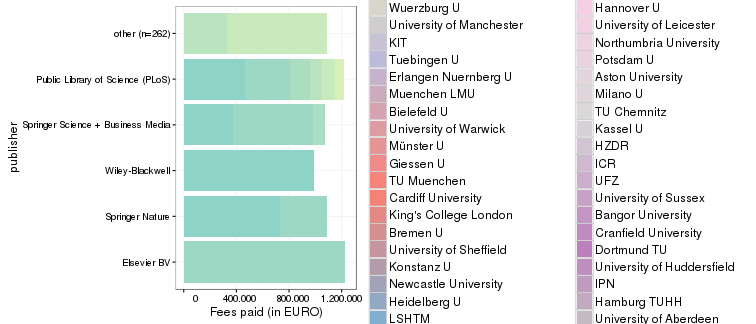
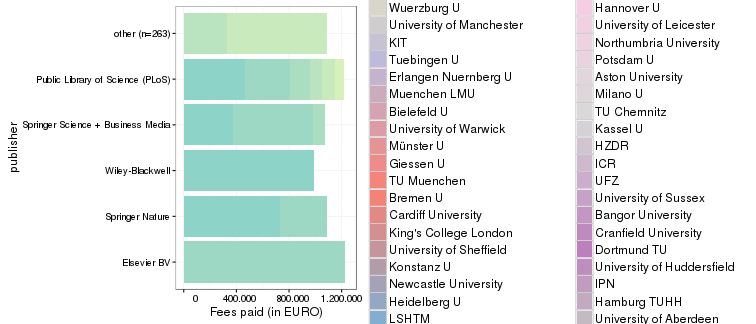
post: bremen apc data 2016

Changed region(s): [[0.5172, 0.5864, 0.6693, 0.679], [0.5172, 0.7099, 0.6693, 0.7407]]

diff --git a/_posts/2017-03-21-bremen.md b/_posts/2017-03-21-bremen.md
@@ -1,0 +1,56 @@
+---
+layout:     post
+author:     Christoph Broschinski
+author_lnk: https://github.com/cbroschinski
+title:      University of Bremen reports remaining APC expenditures for 2016
+date:       2017-03-21 07:00:00
+summary:    
+categories: [general, openAPC]
+comments: true
+---
+
+
+
+The [University of Bremen](http://www.uni-bremen.de/en.html) has updated its APC expenditures. The latest contribution provides remaining data for the 2016 period.
+
+The [State and University Library Bremen](http://www.suub.uni-bremen.de/home-english/) is in charge of the [University's Open Access Publishing Fund](http://www.suub.uni-bremen.de/home-english/refworks-and-publishing/open-access-in-bremen-2/), which is supported under the [DFG's Open Access Publishing Programme](http://www.dfg.de/en/research_funding/programmes/infrastructure/lis/funding_opportunities/open_access/).
+
+Contact person is [Benjamin Ahlborn](mailto:ahlborn@suub.uni-bremen.de).
+
+## Cost data
+
+
+
+The new dataset covers publication fees for 35 articles. Total expenditure amounts to 53 846€ and the average fee is 1 538€.
+
+
+|                                                            | Articles| Fees paid in EURO| Mean Fee paid|
+|:-----------------------------------------------------------|--------:|-----------------:|-------------:|
+|Springer Nature                                             |       13|             16175|          1244|
+|Copernicus GmbH                                             |        7|             12207|          1744|
+|Frontiers Media SA                                          |        3|              6205|          2068|
+|MDPI AG                                                     |        3|              3966|          1322|
+|Public Library of Science (PLoS)                            |        2|              2676|          1338|
+|American Society for Clinical Investigation                 |        1|              3287|          3287|
+|Association for Research in Vision and Ophthalmology (ARVO) |        1|              1528|          1528|
+|BMJ                                                         |        1|              2261|          2261|
+|Elsevier BV                                                 |        1|              1666|          1666|
+|Impact Journals, LLC                                        |        1|              2526|          2526|
+|International Union of Crystallography (IUCr)               |        1|               216|           216|
+|Symbiosis Open Access                                       |        1|              1133|          1133|
+
+## Overview
+
+With the recent contribution included, the overall APC data for Bremen now looks as follows:
+
+### Fees paid per publisher (in EURO)
+
+![plot of chunk tree_bremen_2017_03_21_full](/figure/tree_bremen_2017_03_21_full-1.png)
+
+###  Average costs per year (in EURO)
+
+![plot of chunk box_bremen_2017_03_21_year_full](/figure/box_bremen_2017_03_21_year_full-1.png)
+
+###  Average costs per publisher (in EURO)
+
+![plot of chunk box_bremen_2017_03_21_publisher_full](/figure/box_bremen_2017_03_21_publisher_full-1.png)

diff --git a/about.md b/about.md
@@ -144,13 +144,13 @@ Jisc Collections released data on APC payments made by UK higher education insti
 
 Information on both open access journal articles and open access publication of articles in toll-access journals ("hybrid") are provided.
 
-In total,  55 205 364 € for  29 673 articles were paid by the participating unviversities. Average  fee is 1 860.5 € and the median 1 661 €.
+In total,  55 259 209 € for  29 708 articles were paid by the participating unviversities. Average  fee is 1 860.1 € and the median 1 661 €.
 
 ### Open Access Journals
 
 
 
-At the moment, the dataset releases information on 16 996 articles in open access journals which charge publication fees. Total expenditure amounts to  23 832 550 €. Average  fee is 1 402.2 € and the median 1 313 €.
+At the moment, the dataset releases information on 17 031 articles in open access journals which charge publication fees. Total expenditure amounts to  23 886 395 €. Average  fee is 1 402.5 € and the median 1 313 €.
 
 View dataset on [GitHub](https://github.com/OpenAPC/openapc-de/blob/master/data/apc_de.csv).
 
@@ -163,7 +163,7 @@ View dataset on [GitHub](https://github.com/OpenAPC/openapc-de/blob/master/data/
 |Bayreuth U                                  |       92|           105,725|         1,149|  1,200|
 |Bielefeld U                                 |      349|           437,899|         1,255|  1,276|
 |Bochum U                                    |      130|           188,000|         1,446|  1,510|
-|Bremen U                                    |      264|           335,873|         1,272|  1,246|
+|Bremen U                                    |      299|           389,718|         1,303|  1,285|
 |Cardiff University                          |       55|            98,083|         1,783|  1,638|
 |Cranfield University                        |        5|             6,557|         1,311|  1,688|
 |Dortmund TU                                 |       28|            26,410|           943|    826|
